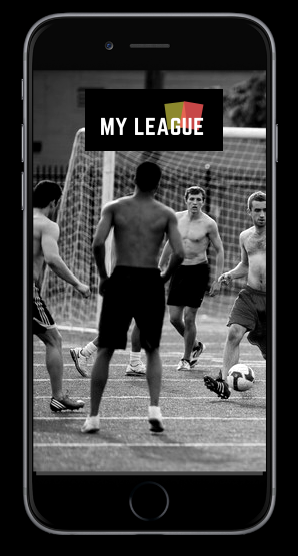
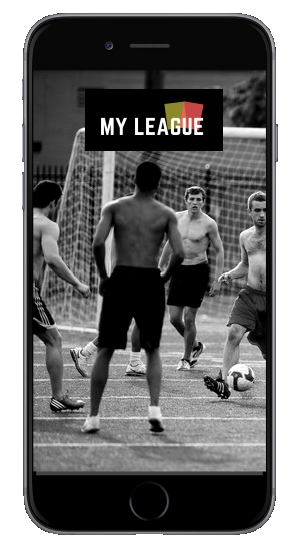
Improve responsive design

Changed region(s): [[0.0, 0.0, 1.0, 1.0]]

diff --git a/app/assets/stylesheets/application.scss b/app/assets/stylesheets/application.scss
@@ -147,7 +147,7 @@ input {
 }
 
 .iphone {
-    height: 550px;
+    height: 450px;
     width: auto;
 }
 
@@ -259,7 +259,6 @@ input {
   left: 0;
   margin: 0;
 
-
   background:
     /* top, transparent red, faked with gradient */
     linear-gradient(
@@ -274,18 +273,13 @@ background-position: center bottom;
   overflow: hidden;
 }
 
-
-
 .covcontent  {
     height: 100%;
 }
 
-
 #ctabis {
     margin: auto;
 }
-
-
 
 .MailChimp {
     padding: 5%;
@@ -296,7 +290,6 @@ background-position: center bottom;
     color: black;
     font-size: 2em;
 }
-
 
 /*footer */
 .footerend {
@@ -314,6 +307,5 @@ background-position: center bottom;
 }
 
 .foot p {
-        margin: auto;
+    margin: auto;
 }
-
